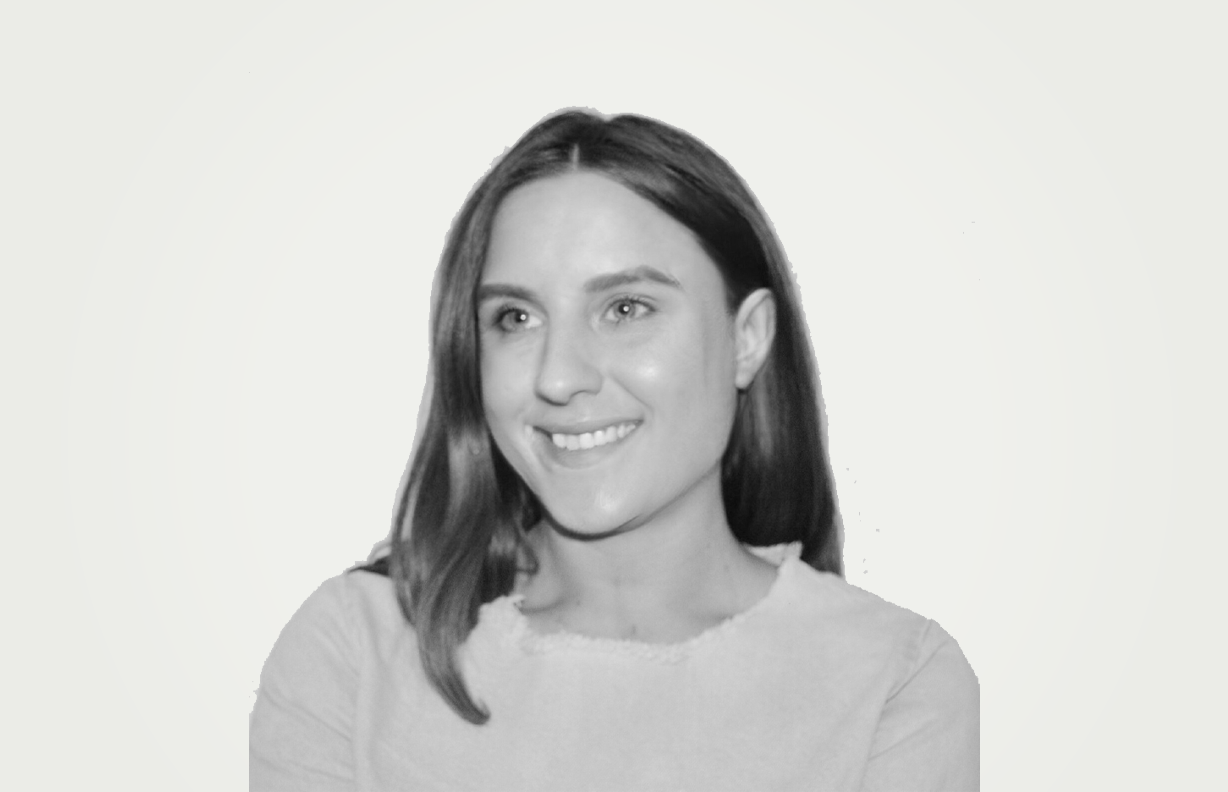
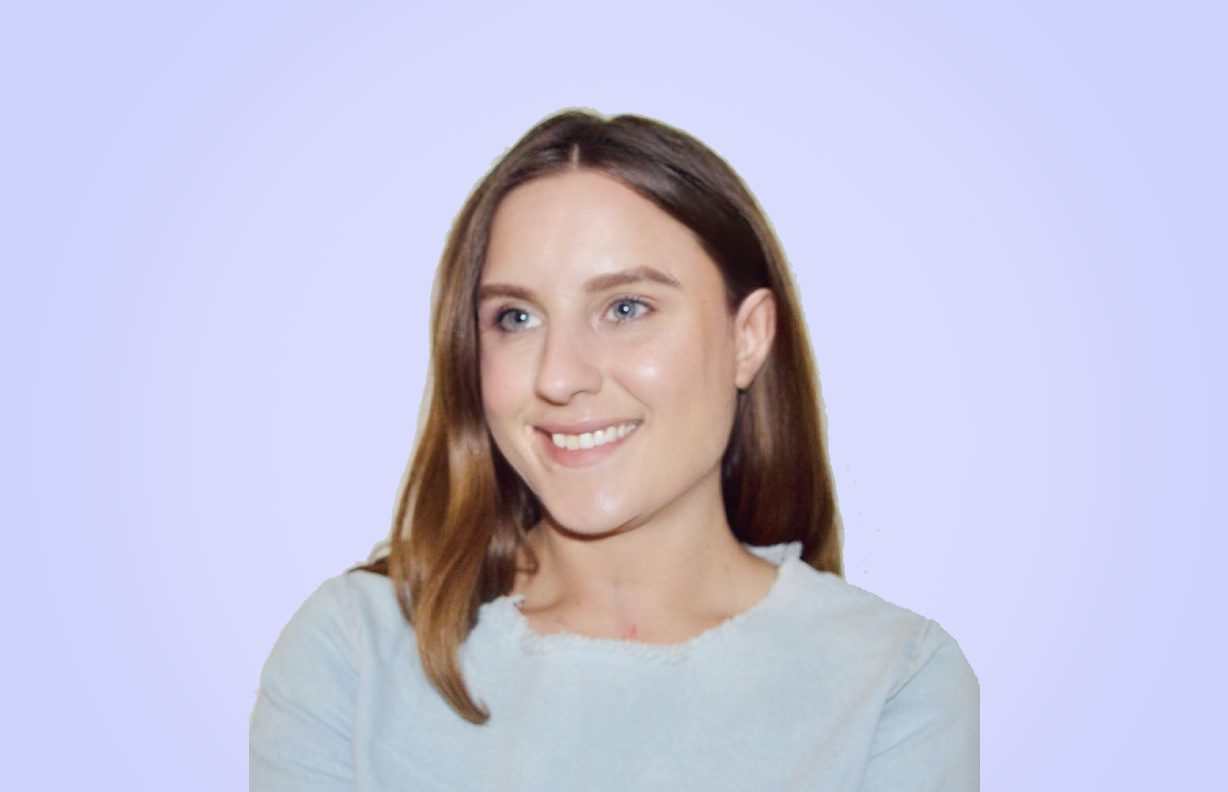
color palette update along with new backgrounds

diff --git a/src/styles/_services.scss b/src/styles/_services.scss
@@ -1,21 +1,21 @@
 .services-page-wrap {
-    // background: $mainColor;
+    background: $mainColor;
     ::selection {
-        background: $seventhColor; 
+        background: $sixthColor; 
     }
 
     a {
         &:hover, &:focus, &:active {
-            color: $seventhColor;
+            color: $sixthColor;
         }
     }
 
     header, footer {
-        // background: $mainColor;
+        background: $mainColor;
 
         a {
             &:hover, &:focus, &:active {
-                color: $seventhColor;
+                color: $sixthColor;
             }
         }
     }
@@ -23,11 +23,11 @@
 
         p {
             &:hover, &:focus, &:active {
-                color: $seventhColor;
+                color: $sixthColor;
             }
         }
     }
-}
+
 
 .about-page {
     line-height: 1.45;
@@ -102,12 +102,13 @@
                 letter-spacing: 1px;
 
                 @media (max-width: 768px)  {
-                    font-size: 1.3rem;
+                    font-size: 1.1rem;
                 }
             }
     
             p {
               margin: 5px 0 25px;
+              font-size: 1.3rem;
               @media (max-width: 768px)  {
                   font-size: 1.4rem;
               }
@@ -128,28 +129,23 @@
         
         h2 {
             width: 100%;
-            font-family: $accentLight;
-            font-size: 2.5rem;
-            margin: 20px 0 5px;
+            font-family: $mainFont;
+            font-size: 1.5rem;
+            margin: 1em 0 5px;
 
-            @media (min-width: 701px) and (max-width: 1125px)  {
-                font-size: 2rem;
+            @media (max-width: 1125px)  {
+                font-size: 1.3rem;
             }
 
-            @media (max-width: 700px)  {
-                font-size: 1.8rem;
+            @media (max-width: 768px)  {
+                display: none;
             }
         }
 
-        .sub-heading {
-          font-size: 1.5rem;
-          margin-top: 5px;
-        }
-        
         .tabs {
           overflow: hidden;
-          border: 1px solid $darkGrey;
-          margin: 40px 0;
+          border: 1px solid rgba(black, 0.5);
+          margin: 20px 0 40px 0;
 
         @media (max-width: 768px)  {
             margin: -20px 0 40px;
@@ -158,7 +154,7 @@
           .tab {
             width: 100%;
             overflow: hidden;
-            border-bottom: 1px solid $darkGrey;
+            border-bottom: 1px solid rgba(black, 0.5);
           
             &:last-child {
               border-bottom: none;
@@ -169,15 +165,14 @@
               justify-content: space-between;
               padding: 1em;
               font-weight: bold;
+              font-size: 1.1rem;
               cursor: pointer;
               font-family: $mainFont;
+              transition: all 0.3s ease-in-out;
 
-              @media (max-width: 768px)  {
-                  font-size: 1.3rem;
-              }
             
               &:hover, &:focus, &:active {
-                background: darken($grey, 3%);
+                background: darken($mainColor, 8%);
               }
             
               &::after {
@@ -200,11 +195,8 @@
               p {
                 margin: 0;
                 padding: 10px 0;
-                font-size: 1.2rem;
+                font-size: 1.4rem;
 
-                @media (max-width: 768px)  {
-                    font-size: 1.4rem;
-                }
               }
               .bold {
                 font-family: $accentMedium;
@@ -217,11 +209,8 @@
                 li {
                   list-style: none;
                   margin: 5px 0;
-                  font-size: 1.2rem;
+                  font-size: 1.4rem;
 
-                  @media (max-width: 768px)  {
-                      font-size: 1.4rem;
-                  }
                 }
               }
 
@@ -229,10 +218,7 @@
                 font-family: $accentBold;
                 text-decoration: underline;
                 margin-bottom: 20px;
-
-                @media (max-width: 768px)  {
-                    font-size: 1.4rem;
-                }
+                font-size: 1.3rem;
               }
             }
             
@@ -246,7 +232,7 @@
             }
 
             input:checked ~ .tab-label {
-              background: darken($grey, 3%);
+              background: darken($mainColor, 8%);
             }
             
             input {
@@ -309,3 +295,4 @@
   }
 }
 
+}

diff --git a/src/pages/services.js b/src/pages/services.js
@@ -13,7 +13,7 @@ const Services = (props) => (
     <div className="wrapper">
       <section className="landing-about">
         <div className="about-wrap">
-          <p>Hello, I design digital products and experiences that are beautifully simple, reassuringly smart and full of brand personality. Check out my services below &amp; let’s make something together.</p>
+          <p>Hello, I design digital products and experiences that are beautifully simple, reassuringly smart and full of brand personality. Check out my services below &amp; let’s build something together.</p>
         </div>
       </section>
       <section className="about-page">
@@ -44,7 +44,7 @@ const Services = (props) => (
         </div>
 
         <div className="about-wrap">
-          {/* <h2>Design Services</h2> */}
+          <h2>My Services</h2>
           <div className="tabs">
             <div className="tab">
               <input type="checkbox" id="chck1" />
@@ -82,7 +82,7 @@ const Services = (props) => (
             </div>
             <div className="tab">
               <input type="checkbox" id="chck4" />
-              <label class="tab-label" for="chck4">Site Design</label>
+              <label class="tab-label" for="chck4">Web Design</label>
               <div class="tab-content">
                 <p>Your site is where your audience connects to your brand — where your brand connects to their needs, and where your audience (hopefully) gets that feeling that they finally found the solutions they've been looking for.</p>
                 <p>Successful design not only means it looks good, it has to be functional, easy to navigate so users find what they need. Use of clear crisp images, text spacing, color scheme, typography, accessibility are all elements in successful site design. Success looks different for every business, and that's why it's important to make sure your message is coming through crystal clear.</p>
@@ -91,7 +91,7 @@ const Services = (props) => (
             </div>
             <div className="tab">
               <input type="checkbox" id="chck5" />
-              <label class="tab-label" for="chck5">Site Build</label>
+              <label class="tab-label" for="chck5">Web Development</label>
               <div class="tab-content">
                 {/* <p>Get your website up and running, with options ranging from basic theme setup (Wordpress/Shopify/Squarespace) to completely custom web solutions, I will work with you to ensure your site acheives all your business goals.</p> */}
                 <p>Whether you’re launching a new site, need an site/ecommerce audit to learn how you can grow your business, are looking to migrate from one platform to another, or need a bespoke site with unique functionality, I will work with you to ensure your site acheives all your business goals and meets WCAG sccessibility standards.</p>

diff --git a/src/pages/index.js b/src/pages/index.js
@@ -40,14 +40,14 @@ const IndexPage = (props) => (
         </Link>
         <Link to="/bad-girls/" className="project-wrap">
           <Img fluid={props.data.imageSix.childImageSharp.fluid} alt="sneek peek at Bad Girls Collective" />
-          <div className="home-project-info livie-info">
+          <div className="home-project-info bad-girls-info">
             <h3>Bad Girls Collective</h3>
             <p className="category">— Shopify Website Build</p>
           </div>
         </Link>
         <Link to="/livie-jewelry/" className="project-wrap">
           <Img fluid={props.data.imageSeven.childImageSharp.fluid} alt="sneek peek at Livie Jewelry" />
-          <div className="home-project-info next-step-info">
+          <div className="home-project-info livie-info">
             <h3>Livie Jewelry</h3>
             <p className="category">— Branding, Shopify Site Design</p>
           </div>

diff --git a/src/styles/_home.scss b/src/styles/_home.scss
@@ -144,7 +144,7 @@
         margin-top: 0;
         display: block;
         width: 100%;
-        color: lighten($black, 20%);
+        color: black;
         font-family: $accentItalic;
         font-size: 1.1rem;
 
@@ -176,14 +176,20 @@
         background: transparent;
       }
     }
-    .livie-info {
+    .bad-girls-info {
       background: rgba($sixthColor, 0.9);
       @media (max-width: 768px) {
         background: transparent;
       }
     }
+    .livie-info {
+      background: rgba($fourthColor, 0.9);
+      @media (max-width: 768px) {
+        background: transparent;
+      }
+    }
     .iva-info {
-      background: rgba($secondColor, 0.9);
+      background: lighten(rgba($fifthColor, 0.9), 5%);
       @media (max-width: 768px) {
         background: transparent;
       }

diff --git a/src/styles/_about.scss b/src/styles/_about.scss
@@ -1,21 +1,21 @@
 .about-page-wrap {
-    // background: $mainColor;
+    background: $seventhColor;
     ::selection {
-        background: $sixthColor; 
+        background: $fourthColor; 
     }
 
     a {
         &:hover, &:focus, &:active {
-            color: $sixthColor;
+            color: $fourthColor;
         }
     }
 
     header, footer {
-        // background: $mainColor;
+        background: $seventhColor;
 
         a {
             &:hover, &:focus, &:active {
-                color: $sixthColor;
+                color: $fourthColor;
             }
         }
     }
@@ -23,7 +23,7 @@
 
         p {
             &:hover, &:focus, &:active {
-                color: $sixthColor;
+                color: $fourthColor;
             }
         }
     }

diff --git a/src/styles/_menu.scss b/src/styles/_menu.scss
@@ -44,11 +44,14 @@
   .bm-item {
     display: inline-block;
     text-decoration: none;
-    margin-bottom: 10px;
+    margin: 10px 0;
+    line-height: 1;
     color: $black;
     transition: color 0.2s;
+    outline: none !important;
+    padding: 5px 10px;
   
-    &:hover, &:focus, &:active {
+    &:hover, &:focus, &:active, &::selection {
       color: $black;
       background: $mainColor;
     }
@@ -64,9 +67,10 @@
     font-size: 0.8rem;
     opacity: 0.2;
 
-    &:hover, &:focus, &:active {
+    &:hover, &:focus, &:active, &::selection {
       color: $black;
       background: none;
+      outline: none;
     }
   }
 }

diff --git a/src/styles/_variables.scss b/src/styles/_variables.scss
@@ -3,13 +3,13 @@ $white: #fff;
 $grey: #f8f8f5;
 $darkGrey: #d4d4d4;
 
-$mainColor: #F8D0BD;
-$secondColor: #DE9524; 
-$thirdColor: #9CB7E2; 
-$fourthColor: #28041E;
-$fifthColor: #1D282B;
-$sixthColor: #DD4A17;
-$seventhColor: #D0D3FC;
+$mainColor: #f2c2ab;
+$secondColor: #dba483; 
+$thirdColor: #c9654d; 
+$fourthColor: #2f7c67;
+$fifthColor: #051f48;
+$sixthColor: #d31021;
+$seventhColor: #babeee;
 
 $next-step: #3665C0;
 $wicked-problem: #3eab54;

diff --git a/src/styles/_header.scss b/src/styles/_header.scss
@@ -54,8 +54,7 @@ header {
 
           &:hover, &:focus, &:active {
             text-decoration: none;
-            // color: $fourthColor;
-            color: $thirdColor;
+            color: $seventhColor;
             background: transparent;
           }
         }
